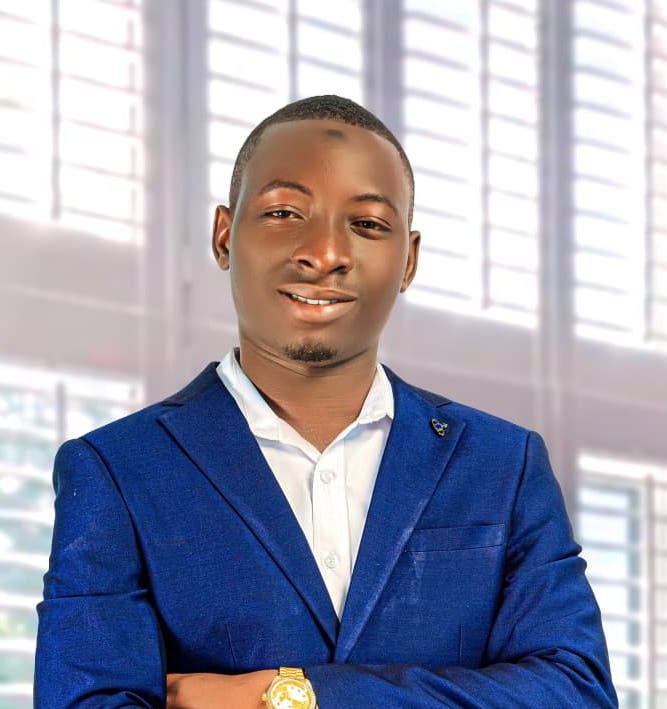
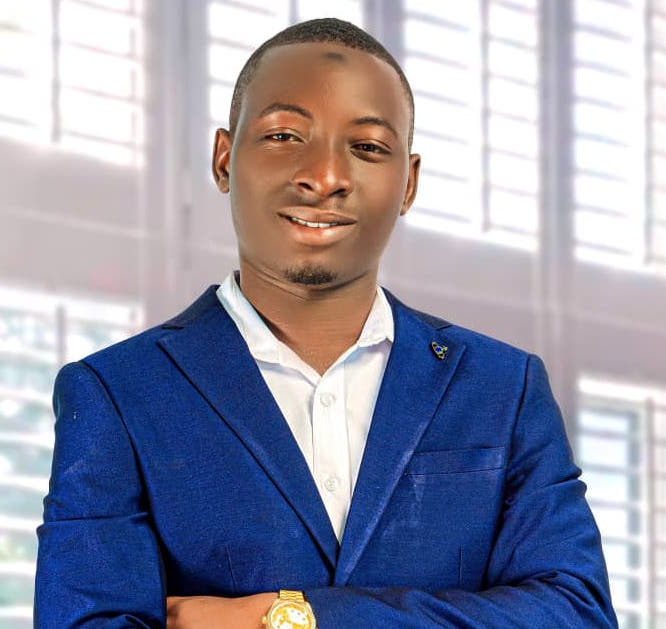
profil review and update

diff --git a/index.html b/index.html
@@ -53,7 +53,7 @@
             <A:link>Abdou Malick</A:link>
           </span>
         </h1>
-        <p class="hero-subtitle">Développeur Web passionné</p>
+        <p class="hero-subtitle">Développeur en devenir</p>
         <p class="hero-description">
           Je crée des sites web modernes, interactifs et responsive.
           Découvrez mes projets et compétences ci-dessous.
@@ -308,8 +308,8 @@
   <!-- Footer -->
   <footer class="footer">
     <div class="container">
-      <p class="footer-text">Designed by Abdou Malick ASSOUMA with HTML, CSS and JavaScript</p>
-      <p class="footer-text">All rights reserved 2026</p>
+      <p class="footer-text">Designed by Abdou Malick ASSOUMA with HTML, CSS and JavaScript.</p>
+      <p class="footer-text">All rights reserved 2026.</p>
     </div>
   </footer>
 

diff --git a/style.css b/style.css
@@ -236,8 +236,8 @@ img {
 }
 
 .about-image img {
-  width: 300px;
-  height: 300px;
+  width: 250px;
+  height: 250px;
   border-radius: 50%;
   object-fit: cover;
   border: 4px solid var(--primary-color);
